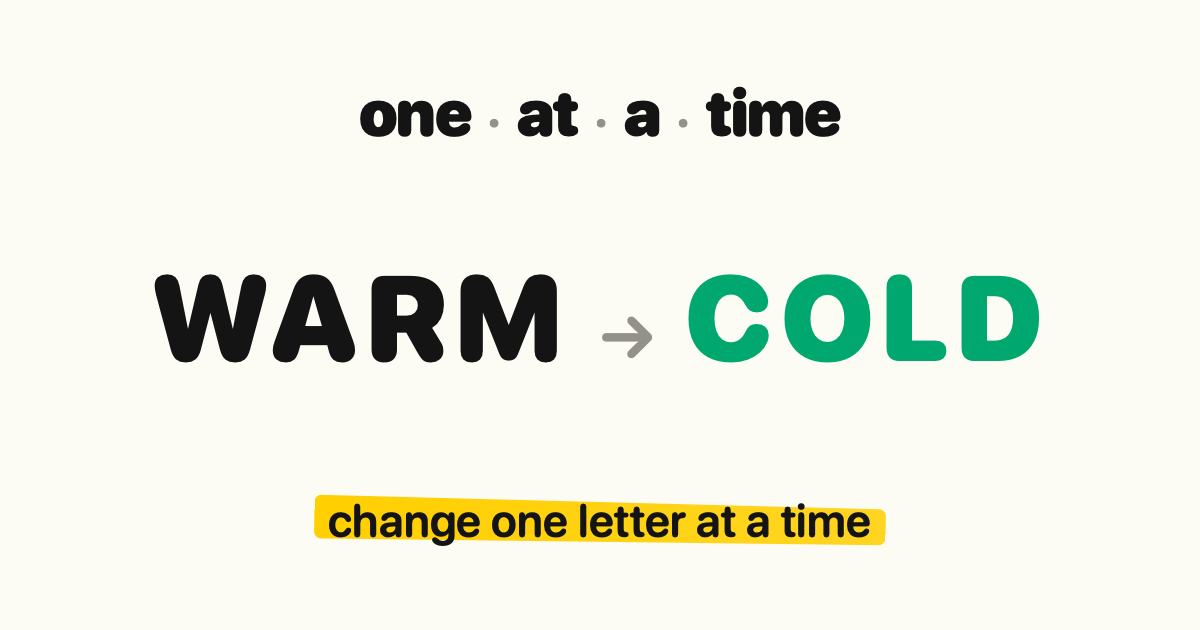
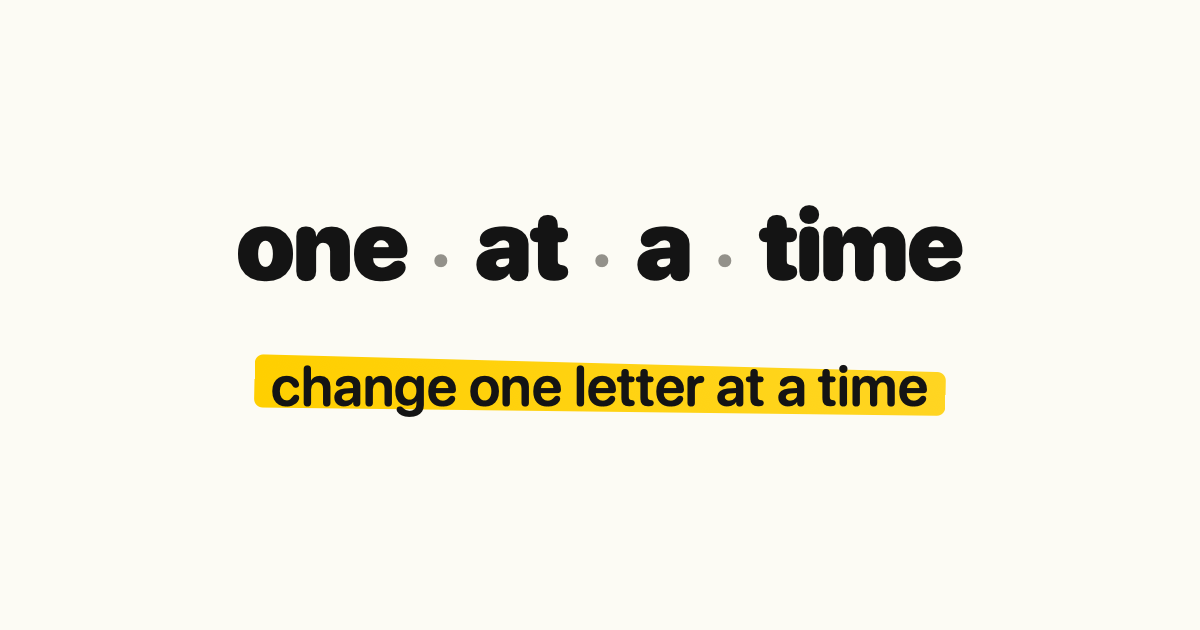
Take the word pair off the link card
The card unfurled from a shared link showed WARM to COLD - the example the
README teaches the game with. Harmless in a browser. In Messages it landed
directly beneath the app's own card, same cream ground, same letterforms,
naming a different pair: send WISP to JUNK in 6 moves and your friend gets
two matching cards and no way to tell which puzzle is theirs.

The link card is static, so it can never show a result. Now it doesn't try
to look like one - just the wordmark and what the game is. Whatever a share
attaches is the result; this is the game.

diff --git a/oneatatime/play.html b/oneatatime/play.html
@@ -23,7 +23,7 @@
     <meta property="og:image:type" content="image/png">
     <meta property="og:image:width" content="1200">
     <meta property="og:image:height" content="630">
-    <meta property="og:image:alt" content="WARM to COLD — change one letter at a time">
+    <meta property="og:image:alt" content="one · at · a · time — change one letter at a time">
     <meta property="og:url" content="https://squaresga.me/oneatatime/play.html">
     <meta property="og:type" content="website">
     <meta name="twitter:card" content="summary_large_image">

diff --git a/oneatatime/index.html b/oneatatime/index.html
@@ -15,7 +15,7 @@
 <meta property="og:image" content="https://squaresga.me/oneatatime/preview.png">
 <meta property="og:image:width" content="1200">
 <meta property="og:image:height" content="630">
-<meta property="og:image:alt" content="WARM to COLD — change one letter at a time">
+<meta property="og:image:alt" content="one · at · a · time — change one letter at a time">
 <meta property="og:url" content="https://squaresga.me/oneatatime/">
 <meta property="og:type" content="website">
 <meta name="twitter:card" content="summary_large_image">
